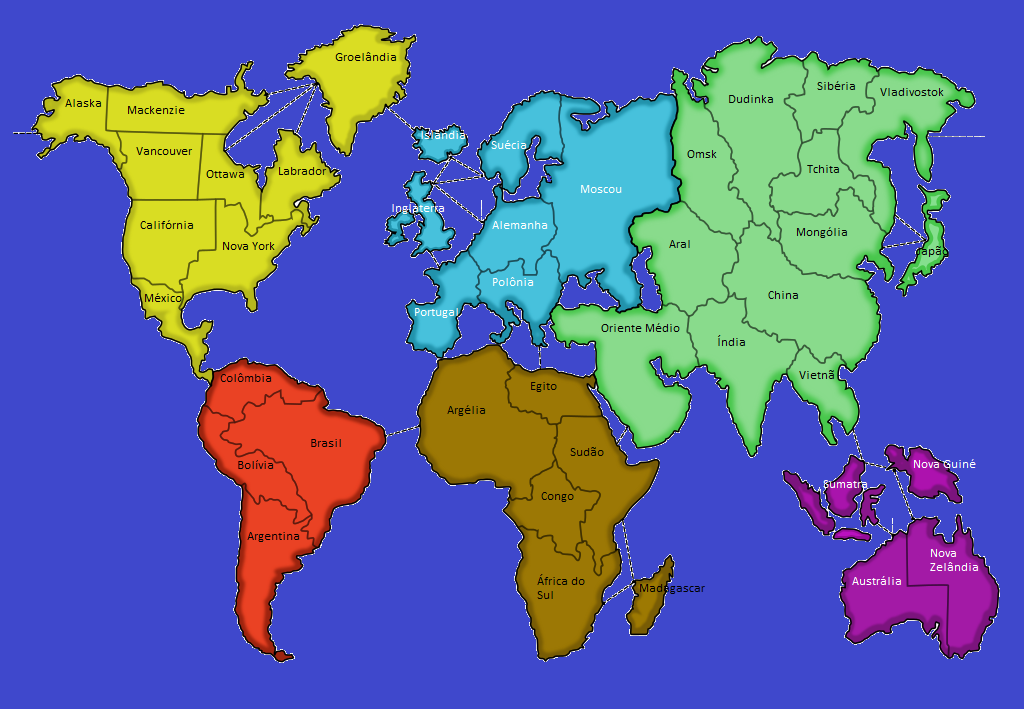
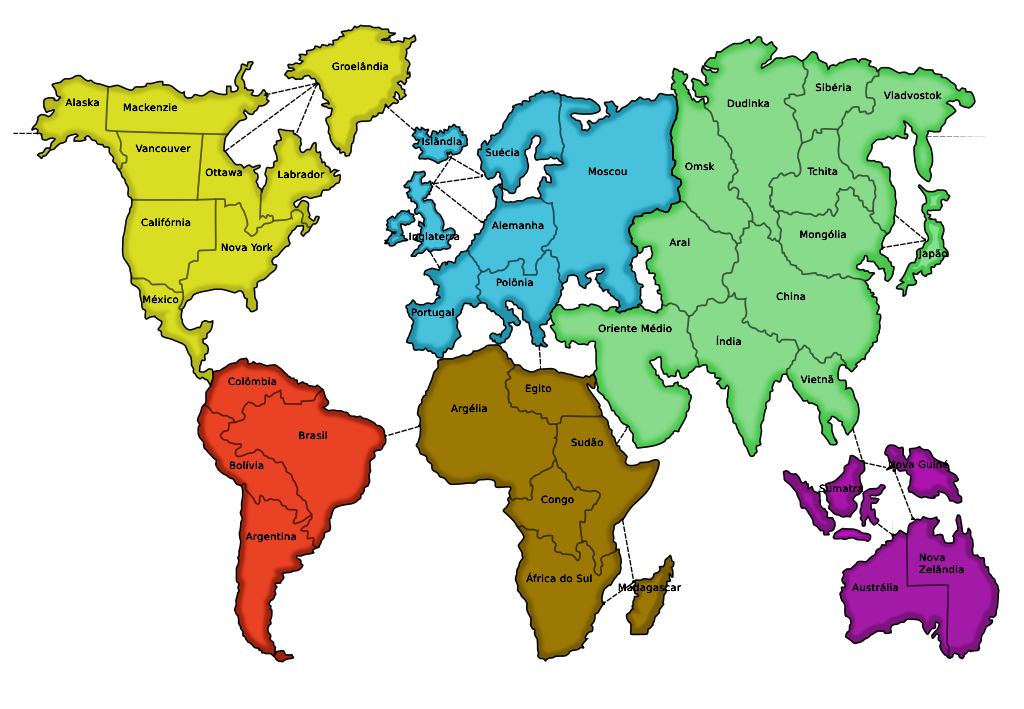
Mapa atualizado

diff --git a/classes/Game.py b/classes/Game.py
@@ -17,7 +17,7 @@ class Game:
     self.window = None
 
     # criacao dos dados teste de territorio e regioes
-    testTerritories: list[Territory] = [Territory('branco',[1,3,29],0,'Alaska',0,99, 139),Territory('branco',[0,3,4,2],0,'Mackenzie',1,245, 127),Territory('vermelho',[1,5,13],0,'Groenlandia',2,422, 98),Territory('branco',[0,1,4,6],0,'Vancouver',3,187, 200),Territory('branco',[1,3,5,7],0,'Ottwa',4,285, 221),Territory('branco',[4,7,2],0,'Labrador',5,335, 219),Territory('branco',[3,7,8,4],0,'California',6,193, 285),Territory('preto',[4,5,6,8],0,'Nova York',7,285, 303),Territory('branco',[6,7,9],0,'Mexico',8,199, 362),Territory('branco',[8,10,11],1,'Colombia',9,279, 447),Territory('vermelho',[9,11,12],1,'Bolivia',10,316, 549),Territory('branco',[9,10,12,20],1,'Brasil',11,389, 535),Territory('branco',[10,11],1,'Argentina',12,317, 634),Territory('branco',[2,16],2,'Islandia',13,519, 171),Territory('preto',[16,15],2,'Suecia',14,600, 187),Territory('branco',[14,17,19,26,32,35],2,'Moscou',15,700, 257),Territory('branco',[13,17,18,14],2,'Inglaterra',16,505, 260),Territory('branco',[15,16,18,19],2,'Alemanha',17,602, 280),Territory('preto',[16,17,19,20,21],2,'Portugal',18,511, 378),Territory('branco',[17,18,21,35,15],2,'Polonia',19,631, 339),Territory('branco',[18,11,23,22,21],3,'Argelia',20,559, 499),Territory('branco',[18,20,22,35,19],3,'Egito',21,668, 452),Territory('preto',[21,20,23,25],3,'Sudão',22,707, 535),Territory('branco',[20,22,24],3,'Congo',23,654, 584),Territory('branco',[23,22,25],3,'Africa do Sul',24,667, 688),Territory('verde',[22,24],3,'Madagascar',25,760, 690),Territory('branco',[15,27,31,33,32],4,'Omsk',26,826, 214),Territory('verde',[26,28,30,31],4,'Dudinka',27,882, 137),Territory('branco',[27,30,29],4,'Siberia',28,970, 123),Territory('branco',[28,30,33,0],4,'Vladivostok',29,1060, 130),Territory('branco',[28,27,31,33,29],4,'Tchita',30,953, 219),Territory('preto',[30,27,26,33],4,'Mongolia',31,972, 291),Territory('vermelho',[26,15,35,36,33],4,'Aral',32,810, 305),Territory('preto',[31,26,32,36,37,34],4,'China',33,960, 359),Territory('branco',[29,33],4,'Japao',34,1079, 306),Territory('branco',[15,19,21,36,32],4,'Oriente Medio',35,735, 408),Territory('branco',[32,35,33,37,38],4,'India',36,878, 417),Territory('verde',[33,36,39],4,'Vietna',37,972, 448),Territory('vermelho',[36,41],5,'Sumatra',38,990, 574),Territory('preto',[37,40,41],5,'Nova Guiné',39,1099, 551),Territory('branco',[39,41],5,'Nova Zelândia',40,1138, 676),Territory('vermelho',[38,39,40],5,'Australia',41,1033, 684)]
+    testTerritories: list[Territory] = [Territory('branco',[1,3,29],0,'Alaska',0,99, 139),Territory('branco',[0,3,4,2],0,'Mackenzie',1,245, 127),Territory('vermelho',[1,5,13],0,'Groenlandia',2,422, 98),Territory('branco',[0,1,4,6],0,'Vancouver',3,187, 200),Territory('branco',[1,3,5,7],0,'Ottwa',4,285, 221),Territory('branco',[4,7,2],0,'Labrador',5,335, 219),Territory('branco',[3,7,8,4],0,'California',6,193, 285),Territory('preto',[4,5,6,8],0,'Nova York',7,285, 303),Territory('branco',[6,7,9],0,'Mexico',8,199, 362),Territory('branco',[8,10,11],1,'Colombia',9,278, 456),Territory('vermelho',[9,11,12],1,'Bolivia',10,316, 549),Territory('branco',[9,10,12,20],1,'Brasil',11,389, 535),Territory('branco',[10,11],1,'Argentina',12,317, 634),Territory('branco',[2,16],2,'Islandia',13,520, 180),Territory('preto',[16,15],2,'Suecia',14,600, 198),Territory('branco',[14,17,19,26,32,35],2,'Moscou',15,709, 242),Territory('branco',[13,17,18,14],2,'Inglaterra',16,500, 237),Territory('branco',[15,16,18,19],2,'Alemanha',17,602, 280),Territory('preto',[16,17,19,20,21],2,'Portugal',18,511, 378),Territory('branco',[17,18,21,35,15],2,'Polonia',19,631, 339),Territory('branco',[18,11,23,22,21],3,'Argelia',20,559, 499),Territory('branco',[18,20,22,35,19],3,'Egito',21,668, 452),Territory('preto',[21,20,23,25],3,'Sudão',22,707, 535),Territory('branco',[20,22,24],3,'Congo',23,654, 590),Territory('branco',[23,22,25],3,'Africa do Sul',24,667, 688),Territory('verde',[22,24],3,'Madagascar',25,760, 690),Territory('branco',[15,27,31,33,32],4,'Omsk',26,826, 214),Territory('verde',[26,28,30,31],4,'Dudinka',27,884, 145),Territory('branco',[27,30,29],4,'Siberia',28,970, 123),Territory('branco',[28,30,33,0],4,'Vladivostok',29,1060, 130),Territory('branco',[28,27,31,33,29],4,'Tchita',30,953, 219),Territory('preto',[30,27,26,33],4,'Mongolia',31,972, 291),Territory('vermelho',[26,15,35,36,33],4,'Aral',32,810, 305),Territory('preto',[31,26,32,36,37,34],4,'China',33,960, 359),Territory('branco',[29,33],4,'Japao',34,1079, 311),Territory('branco',[15,19,21,36,32],4,'Oriente Medio',35,735, 408),Territory('branco',[32,35,33,37,38],4,'India',36,878, 417),Territory('verde',[33,36,39],4,'Vietna',37,978, 455),Territory('vermelho',[36,41],5,'Sumatra',38,990, 574),Territory('preto',[37,40,41],5,'Nova Guiné',39,1099, 551),Territory('branco',[39,41],5,'Nova Zelândia',40,1138, 676),Territory('vermelho',[38,39,40],5,'Australia',41,1036, 691)]
     testRegions: list[Region] = [Region('América do Norte', 3, 0), Region('América do Sul', 2, 1), Region('Europa', 2, 2), Region('Africa', 9, 3), Region('Ásia', 6, 4), Region('Oceania', 2, 5)]
     self.gameMap = GameMap(testTerritories, testRegions)
     self.gameMap.territories[1].loseTroops(2)
